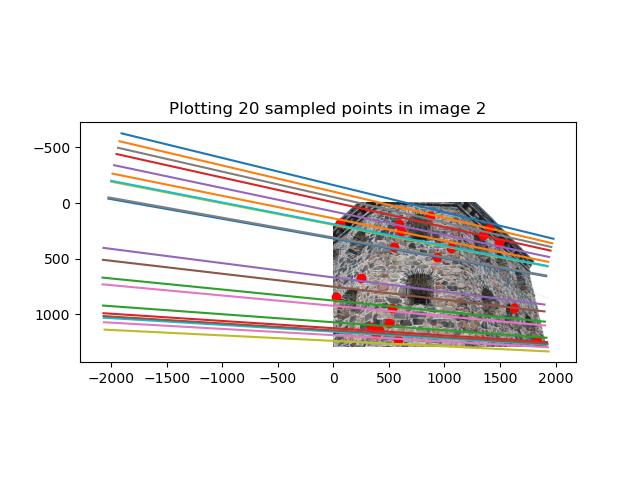
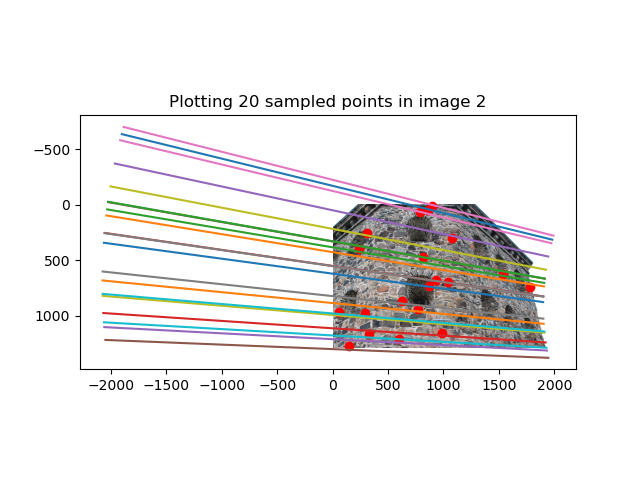
feat: finish compex assignment 3

diff --git a/assignment3/compEx3.py b/assignment3/compEx3.py
@@ -1,7 +1,87 @@
 import numpy as np
 from enforce_essential import enforce_essential
+from extract_P_from_E import extract_P_from_E
+from triangulate_3D_point_DLT import triangulate_3D_point_DLT
+from scipy.io import loadmat
+from pflat import pflat
+from PIL import Image
+from matplotlib import pyplot as plt
+from plotcams import plotcams
 
 if __name__ == "__main__":
     E = np.load('variables/E.npy')
     enforce_essential(E)
-    print(E.shape)
+
+    mat = loadmat('./A3data/compEx1data.mat')
+    mat2 = loadmat('./A3data/compEx2data.mat')
+    im1, im2 = Image.open('./A3data/kronan1.JPG'), Image.open('./A3data/kronan2.JPG')
+
+    K = mat2['K']
+    K_inv = np.linalg.inv(K)
+
+    x = mat['x']
+    x = np.array([pflat(x[0][0]), pflat(x[1][0])])
+    _, _, N = x.shape
+    x_unnormalized = x.copy()
+    x = np.array([K_inv@x[0], K_inv@x[1]])
+    
+    P1 = np.hstack((np.eye(3), np.zeros((3,1))))
+    P2s = extract_P_from_E(E)
+
+    P2_best = None
+    X_best = None
+    for P2 in P2s:
+        Xj = []
+        positive_depth_count = 0
+        for i in range(N):
+            xi = x[:, :, i]
+            Xi, _ = triangulate_3D_point_DLT(xi[0, :2], xi[1, :2], P1, P2)
+            Xj.append(Xi)
+
+            X_h = np.hstack((Xi, [1]))  # Homogeneous coordinates
+            if P1[2, :] @ X_h > 0 and P2[2, :] @ X_h > 0:
+                positive_depth_count += 1
+
+        # Taking only P2 that has all points in front of both cameras
+        if positive_depth_count == N:
+            X_best = Xj
+            P2_best = P2
+
+    if P2_best is None or X_best is None:
+        raise ValueError('No valid P2 found')
+
+    X = np.array(X_best).T
+    P2 = P2_best
+
+    # Deciding best matrix / points
+    X = np.vstack((X, np.ones(X.shape[1]))) # Make homogeneous
+
+    # Removing normalization
+    P1 = K@P1
+    P2 = K@P2
+
+    # Ensuring last coordinate is 1
+    x1_proj = pflat(P1@X)
+
+    plt.figure()
+    plt.title('[...]')
+    plt.plot(x_unnormalized[0, 0, :], x_unnormalized[0, 1, :], 'ro', alpha=0.3, markersize=1, label='Original points')
+    plt.plot(x1_proj[0, :], x1_proj[1, :], 'bo', alpha=0.3, markersize=1, label='Reprojected 3D points')
+    plt.legend(loc='upper right', fontsize=10, markerscale=10)
+    plt.imshow(im1.convert("RGB"))
+    plt.savefig('./plots/compEx3_plot1.png')
+    plt.show()
+
+    # Plot 2
+    fig = plt.figure()
+    ax = fig.add_subplot(111, projection='3d')
+    ax.plot(X[0], X[1], X[2], 'bo', alpha=0.2, markersize=0.5)
+    plotcams([P1, P2], ax=ax, scale=3)
+    plt.axis('equal')
+    plt.title('[...]')
+    plt.savefig('plots/compEx3_plot2.png')
+    plt.show()
+    plt.close()
+
+
+

diff --git a/assignment3/compEx2.py b/assignment3/compEx2.py
@@ -20,20 +20,20 @@ if __name__ == "__main__":
     K = mat['K']
     K_inv = np.linalg.inv(K)
 
-    x = np.array([K_inv@x[0], K_inv@x[1]])
-    F = estimate_F_DLT(x[0], x[1])
-    enforce_fundamental(F)
-    E = K.T@F@K
+    x = np.array([pflat(K_inv@x[0]), pflat(K_inv@x[1])])
+
+    E = estimate_F_DLT(x[0], x[1])
+    enforce_fundamental(E)
+    
     U, S, Vt = np.linalg.svd(E)
     E = U@np.diag([1,1,0])@Vt
 
     np.save('variables/E.npy', E)
 
-    epipolar_constraint = x[1].T@E@x[0]
-    assert np.allclose(epipolar_constraint, np.zeros_like(epipolar_constraint), atol=5e-1), f'Epipolar constraint not fulfilled! Max deviation: {np.max(np.abs(epipolar_constraint))}'
+    epipolar_constraint = x[1].T@E@x[0].diagonal()
+    assert np.allclose(epipolar_constraint, np.zeros_like(epipolar_constraint), atol=3.5e-1), f'Epipolar constraint not fulfilled! Max deviation: {np.max(np.abs(epipolar_constraint))}'
 
-    F = convert_E_to_F(E, K, K)
-    F_unnormalized = K.T @ F @ K
+    F_unnormalized = convert_E_to_F(E, K, K)
     
     indices = np.random.choice(x_unnormalized[0].shape[-1], size=20, replace=False)
     sampled_points = pflat(x_unnormalized[1][:, indices])
@@ -66,9 +66,9 @@ if __name__ == "__main__":
 
     plt.figure()
     plt.title('Histogram of distances to epipolar lines')
-    errors = compute_epipolar_errors(F, x[0], x[1])
+    errors = compute_epipolar_errors(F_unnormalized, x_unnormalized[0], x_unnormalized[1])
     print('Mean distance to epipolar lines: ', np.mean(errors))
-    plt.savefig('./plots/compEx1_plot2.png')
+    plt.savefig('./plots/compEx2_plot2.png')
     plt.show()
     plt.close()
     

diff --git a/assignment3/points_in_front_of_camera.py b/assignment3/points_in_front_of_camera.py
@@ -1,0 +1,32 @@
+import numpy as np
+
+def points_in_front_of_cameras(X, P1, P2):
+    """
+    Check which points are in front of both cameras.
+    
+    Parameters:
+    X (numpy.ndarray): 4xN homogeneous 3D points
+    P1 (numpy.ndarray): First camera matrix (3x4)
+    P2 (numpy.ndarray): Second camera matrix (3x4)
+    
+    Returns:
+    numpy.ndarray: Boolean array indicating which points are in front of both cameras
+    """
+    # Camera center of first camera (which is at origin in its coordinate system)
+    C1 = np.zeros(3)
+    
+    # Camera center of second camera
+    C2 = -np.linalg.inv(P2[:, :3]) @ P2[:, 3]
+    
+    # Check points in front of first camera
+    # Project points to first camera and check z coordinate
+    X_cam1 = P1 @ X
+    in_front_cam1 = X_cam1[2, :] > 0
+    
+    # Check points in front of second camera
+    # Project points to second camera and check z coordinate
+    X_cam2 = P2 @ X
+    in_front_cam2 = X_cam2[2, :] > 0
+    
+    # Combine conditions
+    return in_front_cam1 & in_front_cam2

diff --git a/assignment3/compEx1.py b/assignment3/compEx1.py
@@ -86,12 +86,13 @@ if __name__ == "__main__":
     F = estimate_F_DLT(x[0], x[1])
     enforce_fundamental(F)
 
-    epipolar_constraint = x[0].T@F@x[1]
-    assert np.allclose(epipolar_constraint, np.zeros_like(epipolar_constraint), atol=5e1), f'Epipolar constraint not fulfilled! Max deviation: {np.max(np.abs(epipolar_constraint))}'   
+    epipolar_constraint = x[0].T@F@x[1].diagonal()
+    assert np.allclose(epipolar_constraint, np.zeros_like(epipolar_constraint), atol=2e1), f'Epipolar constraint not fulfilled! Max deviation: {np.max(np.abs(epipolar_constraint))}'   
     errors = compute_epipolar_errors(F, x[0], x[1])
 
     print('Fundamental matrix F for the original (un-normalized) points', F/F[-1, -1])
 
+    plt.close()
     plt.figure()
     plt.title('Histogram of distances to epipolar lines (non-normalized case)')
     errors = compute_epipolar_errors(F, x[0], x[1])

diff --git a/assignment3/triangulate_3D_point_DLT.py b/assignment3/triangulate_3D_point_DLT.py
@@ -1,0 +1,24 @@
+import numpy as np
+
+def triangulate_3D_point_DLT(x1, x2, P1, P2):
+    """
+    Triangulate the 3D position of a point given two 2D correspondences and camera matrices.
+    
+    Args:
+    x1 -- 2D point in image 1
+    x2 -- 2D point in image 2
+    P1 -- Camera matrix for image 1
+    P2 -- Camera matrix for image 2
+    
+    Returns:
+    X -- 3D position of the point
+    """
+    A = np.array([x1[0] * P1[2, :] - P1[0, :],
+                  x1[1] * P1[2, :] - P1[1, :],
+                  x2[0] * P2[2, :] - P2[0, :],
+                  x2[1] * P2[2, :] - P2[1, :]])
+    _, _, V = np.linalg.svd(A)
+    X = V[-1, :3] / V [-1, -1]
+
+    sv = V[-1, -1] # smallest singular value
+    return X, sv

diff --git a/assignment3/extract_P_from_E.py b/assignment3/extract_P_from_E.py
@@ -1,0 +1,18 @@
+import numpy as np
+from enforce_essential import enforce_essential
+
+def extract_P_from_E(E):
+    enforce_essential(E)
+    U, S, Vt = np.linalg.svd(E)
+
+    if np.linalg.det(U@Vt)<0:
+        Vt = -Vt
+    
+    u3 = U[:, 2]
+    W = np.array([
+        [0, -1, 0],
+        [1, 0, 0],
+        [0, 0, 1]
+    ])
+    u3 = np.reshape(u3, (3,1))
+    return [np.hstack((U@W@Vt, u3)), np.hstack((U@W@Vt, -u3)), np.hstack((U@W.T@Vt, u3)), np.hstack((U@W.T@Vt, -u3))]

diff --git a/assignment3/plotcams.py b/assignment3/plotcams.py
@@ -1,0 +1,17 @@
+import numpy as np
+import matplotlib.pyplot as plt
+
+def plotcams(P, ax, scale=1.5):
+    c = np.zeros((4, len(P)))
+    v = np.zeros((3, len(P)))
+    
+    for i in range(len(P)):
+        c[:, i] = np.linalg.svd(P[i])[2][-1]  
+        v[:, i] = P[i][2, :3]  
+    
+    c /= c[3, :]
+    
+    ax.quiver(c[0, :], c[1, :], c[2, :], v[0, :], v[1, :], v[2, :],
+              color='r', linewidth=1.5, length=scale, normalize=True)
+    
+    
